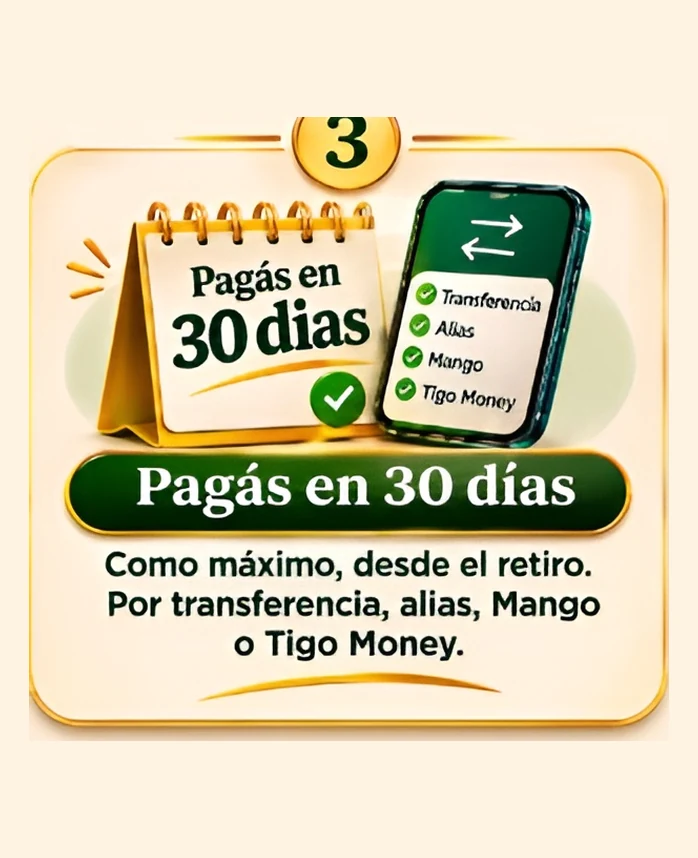
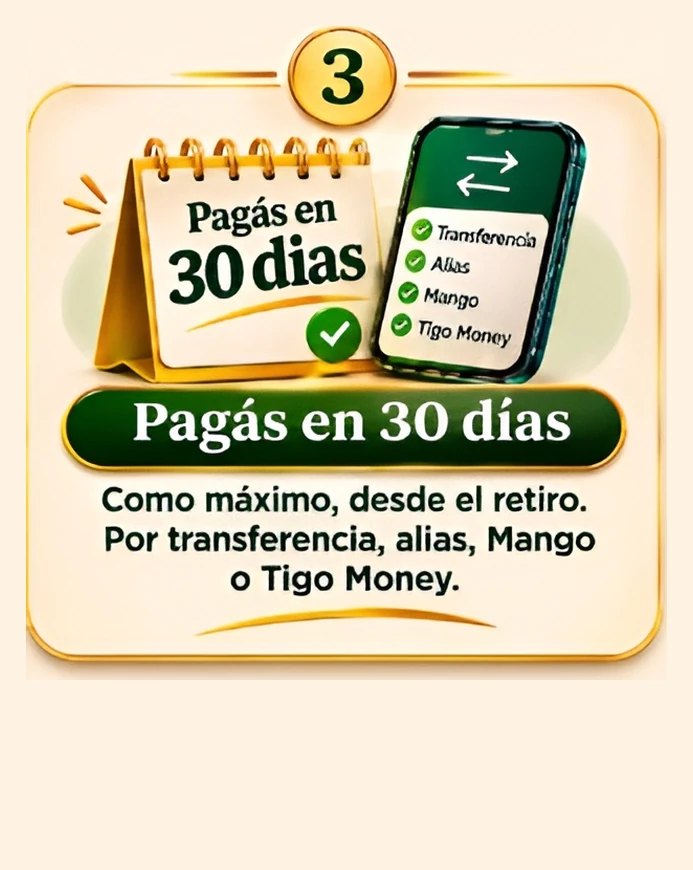
Corrige el emparejado de las tres tarjetas: una quedaba cortada
El intento anterior recortaba por una sola caja, la de «todo lo que no
es crema», y para no confundirse con el ruido del jpg pedia muchos
pixeles por fila. La chapa redonda del numero es angosta y no llegaba a
ese umbral, asi que el recorte le corto la cabeza a la primera tarjeta.
Y como cada chapa sobresale distinto, los marcos tampoco quedaban del
mismo ancho.

Ahora se miden dos cosas distintas en cada archivo. El MARCO, que se
reconoce porque sus bordes son lineas largas y aparecen como filas o
columnas con muchisimos pixeles distintos del crema. Y el CONTENIDO,
que es cualquier cosa que no sea crema por poco que sea, e incluye la
chapa. Se escalan las tres para que el marco mida 640 de ancho y se
pegan enteras, alineadas arriba, en un lienzo de 693x870.

Alineadas arriba y no al medio: asi las tres chapas quedan a la misma
altura y los tres marcos empiezan en la misma linea. El crema que sobra
en la 2 y la 3 se va todo abajo, donde no se compara.

Medido en el navegador: las tres ocupan 350x439 en computadora y
339x426 en un telefono, y arrancan en el mismo punto. Ninguna cortada.

diff --git a/Doña Compra.dc.html b/Doña Compra.dc.html
@@ -674,9 +674,9 @@
              aspect-ratio ni object-fit: ya no hace falta forzar nada. -->
         <h2 style="font-family:Montserrat,sans-serif;font-weight:600;font-size:clamp(26px,3.6vw,46px);line-height:1.06;color:#163923;margin:0 0 26px">Tus tres pasos</h2>
         <ol style="list-style:none;margin:0;padding:0;display:grid;grid-template-columns:repeat(auto-fit,minmax(min(280px,100%),1fr));gap:18px;align-items:start">
-          <li><img src="assets/pasos/paso-1-vos-elegis.webp?v=2" width="698" height="858" loading="lazy" decoding="async" alt="Paso 1. Vos eleg&iacute;s: los productos y tu mayorista que ya conoc&eacute;s. Una bolsa de Do&ntilde;a Compra junto a un carrito cargado de cajas." style="width:100%;height:auto;display:block;border-radius:10px" /></li>
-          <li><img src="assets/pasos/paso-2-dona-compra-paga.webp?v=2" width="698" height="858" loading="lazy" decoding="async" alt="Paso 2. Do&ntilde;a Compra paga al contado a tu mayorista. Vos retir&aacute;s tu mercader&iacute;a con tu c&oacute;digo de recepci&oacute;n." style="width:100%;height:auto;display:block;border-radius:10px" /></li>
-          <li><img src="assets/pasos/paso-3-pagas-en-30-dias.webp?v=2" width="698" height="858" loading="lazy" decoding="async" alt="Paso 3. Pag&aacute;s en 30 d&iacute;as como m&aacute;ximo, desde el retiro, por transferencia, alias, Mango o Tigo Money." style="width:100%;height:auto;display:block;border-radius:10px" /></li>
+          <li><img src="assets/pasos/paso-1-vos-elegis.webp?v=3" width="693" height="870" loading="lazy" decoding="async" alt="Paso 1. Vos eleg&iacute;s: los productos y tu mayorista que ya conoc&eacute;s. Una bolsa de Do&ntilde;a Compra junto a un carrito cargado de cajas." style="width:100%;height:auto;display:block;border-radius:10px" /></li>
+          <li><img src="assets/pasos/paso-2-dona-compra-paga.webp?v=3" width="693" height="870" loading="lazy" decoding="async" alt="Paso 2. Do&ntilde;a Compra paga al contado a tu mayorista. Vos retir&aacute;s tu mercader&iacute;a con tu c&oacute;digo de recepci&oacute;n." style="width:100%;height:auto;display:block;border-radius:10px" /></li>
+          <li><img src="assets/pasos/paso-3-pagas-en-30-dias.webp?v=3" width="693" height="870" loading="lazy" decoding="async" alt="Paso 3. Pag&aacute;s en 30 d&iacute;as como m&aacute;ximo, desde el retiro, por transferencia, alias, Mango o Tigo Money." style="width:100%;height:auto;display:block;border-radius:10px" /></li>
         </ol>
       </div>
     </section>

diff --git a/index.html b/index.html
@@ -674,9 +674,9 @@
              aspect-ratio ni object-fit: ya no hace falta forzar nada. -->
         <h2 style="font-family:Montserrat,sans-serif;font-weight:600;font-size:clamp(26px,3.6vw,46px);line-height:1.06;color:#163923;margin:0 0 26px">Tus tres pasos</h2>
         <ol style="list-style:none;margin:0;padding:0;display:grid;grid-template-columns:repeat(auto-fit,minmax(min(280px,100%),1fr));gap:18px;align-items:start">
-          <li><img src="assets/pasos/paso-1-vos-elegis.webp?v=2" width="698" height="858" loading="lazy" decoding="async" alt="Paso 1. Vos eleg&iacute;s: los productos y tu mayorista que ya conoc&eacute;s. Una bolsa de Do&ntilde;a Compra junto a un carrito cargado de cajas." style="width:100%;height:auto;display:block;border-radius:10px" /></li>
-          <li><img src="assets/pasos/paso-2-dona-compra-paga.webp?v=2" width="698" height="858" loading="lazy" decoding="async" alt="Paso 2. Do&ntilde;a Compra paga al contado a tu mayorista. Vos retir&aacute;s tu mercader&iacute;a con tu c&oacute;digo de recepci&oacute;n." style="width:100%;height:auto;display:block;border-radius:10px" /></li>
-          <li><img src="assets/pasos/paso-3-pagas-en-30-dias.webp?v=2" width="698" height="858" loading="lazy" decoding="async" alt="Paso 3. Pag&aacute;s en 30 d&iacute;as como m&aacute;ximo, desde el retiro, por transferencia, alias, Mango o Tigo Money." style="width:100%;height:auto;display:block;border-radius:10px" /></li>
+          <li><img src="assets/pasos/paso-1-vos-elegis.webp?v=3" width="693" height="870" loading="lazy" decoding="async" alt="Paso 1. Vos eleg&iacute;s: los productos y tu mayorista que ya conoc&eacute;s. Una bolsa de Do&ntilde;a Compra junto a un carrito cargado de cajas." style="width:100%;height:auto;display:block;border-radius:10px" /></li>
+          <li><img src="assets/pasos/paso-2-dona-compra-paga.webp?v=3" width="693" height="870" loading="lazy" decoding="async" alt="Paso 2. Do&ntilde;a Compra paga al contado a tu mayorista. Vos retir&aacute;s tu mercader&iacute;a con tu c&oacute;digo de recepci&oacute;n." style="width:100%;height:auto;display:block;border-radius:10px" /></li>
+          <li><img src="assets/pasos/paso-3-pagas-en-30-dias.webp?v=3" width="693" height="870" loading="lazy" decoding="async" alt="Paso 3. Pag&aacute;s en 30 d&iacute;as como m&aacute;ximo, desde el retiro, por transferencia, alias, Mango o Tigo Money." style="width:100%;height:auto;display:block;border-radius:10px" /></li>
         </ol>
       </div>
     </section>
